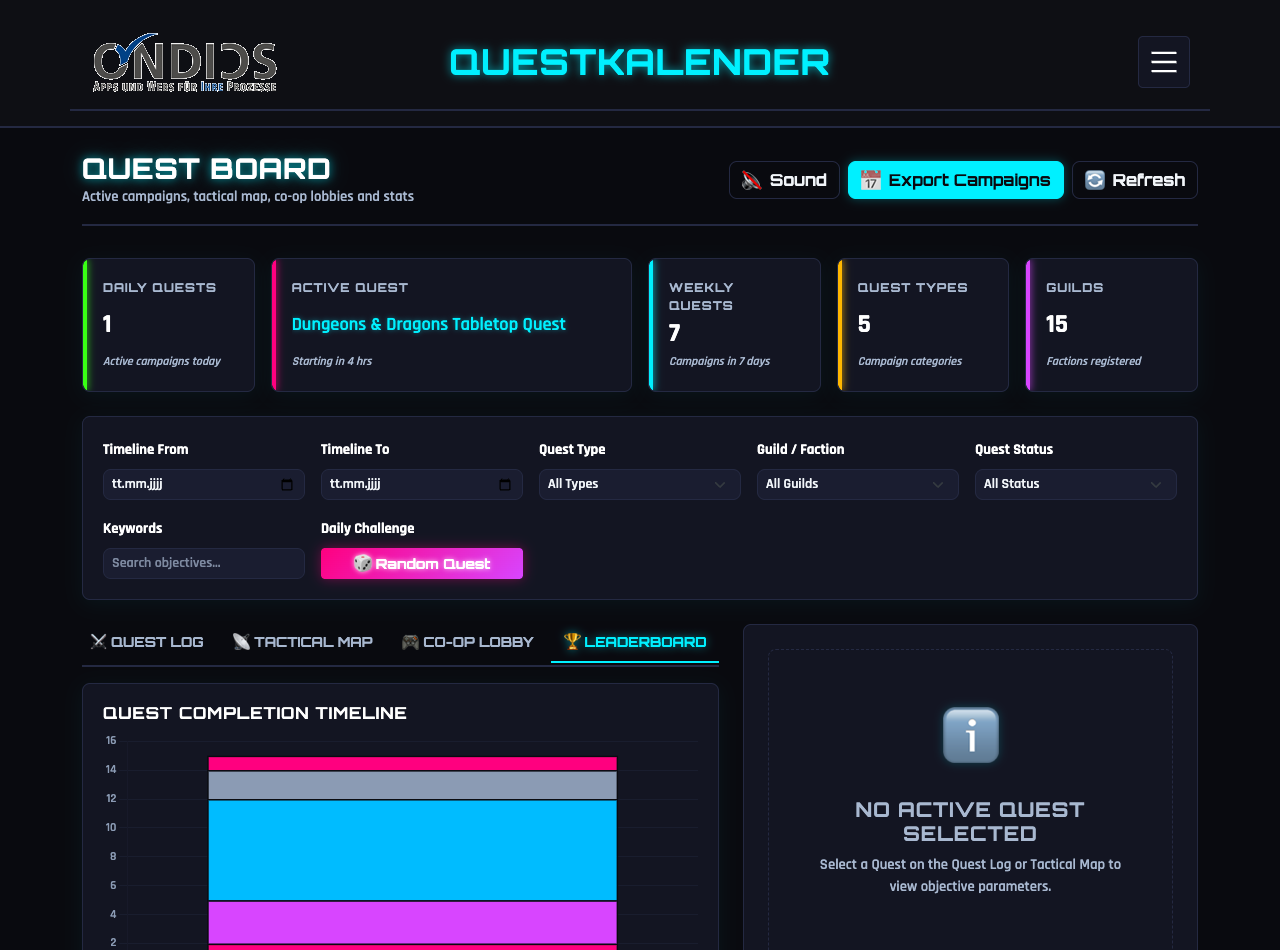
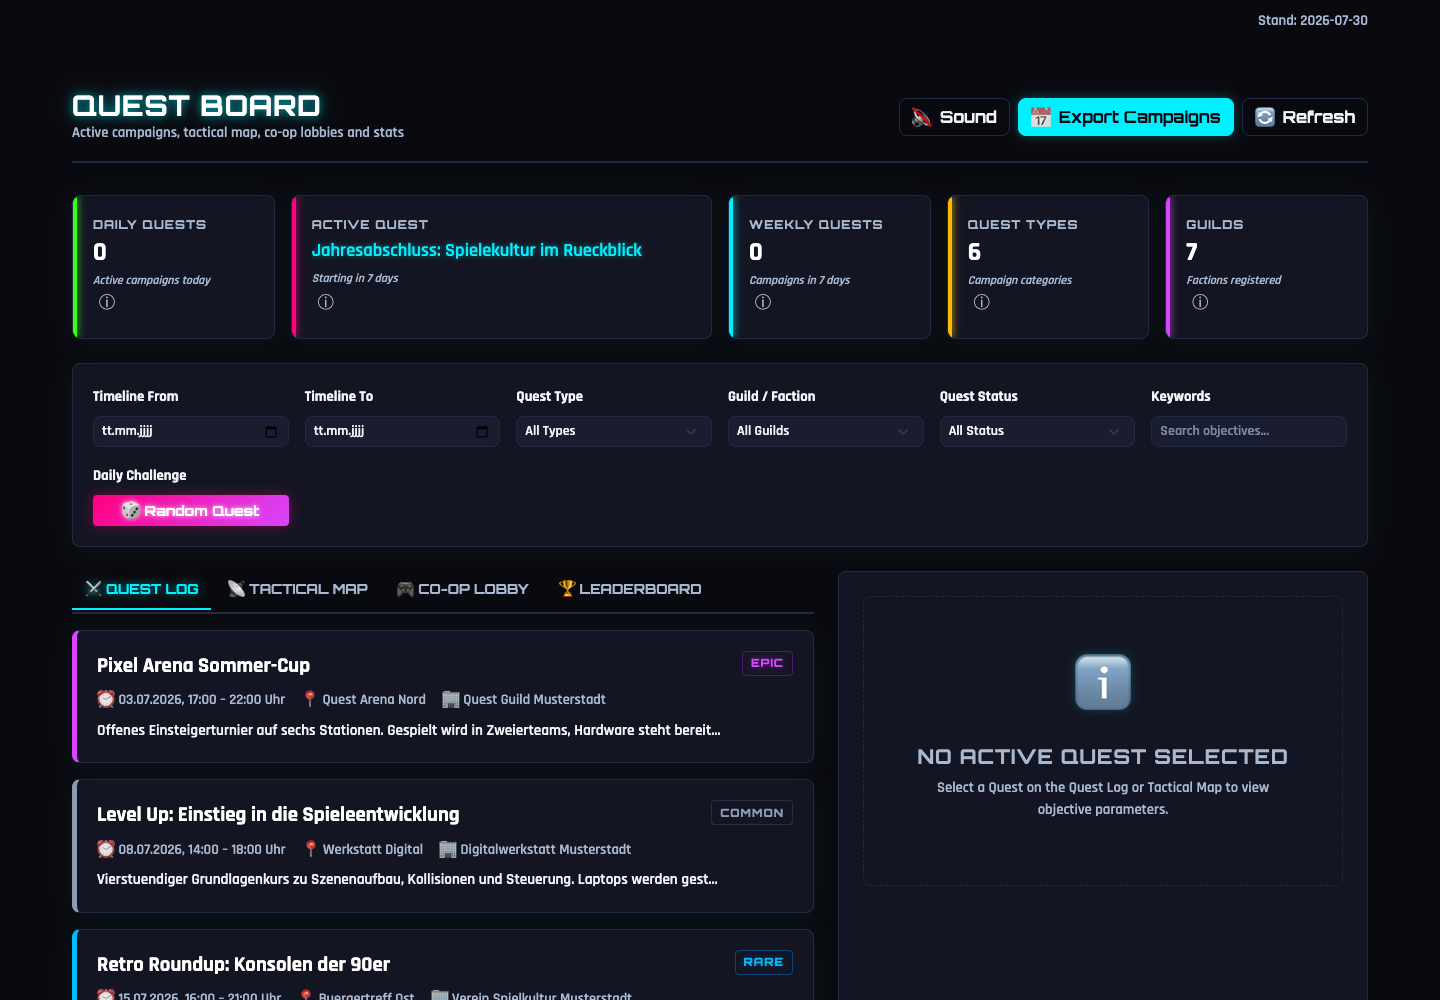
docs: neue Store-Screenshots, je 3 Desktop und 3 Mobile (1.32.15)
Aufgenommen auf der Dev-Instanz mit dem aktuellen App-Stand (1440x1000 bzw. 390x844, Ladepruefung vor jeder Aufnahme). Bisherige Bilder nach docs/screenshots/archive/2026-10-13/ verschoben. Kein App-Code geaendert.

diff --git a/CHANGELOG.md b/CHANGELOG.md
@@ -1,5 +1,8 @@
 # Changelog
 
+## 1.32.15 - 2026-10-15
+- DOCS: Neue Store-Screenshots: je drei Desktop- (1440 × 1000) und Mobile-Aufnahmen (390 × 844) der aktuellen App, aufgenommen auf der Dev-Instanz. Bisherige Bilder nach `docs/screenshots/archive/2026-10-13/` verschoben. Keine Änderung an App-Code oder Konfiguration.
+
 ## 1.32.14 - 2026-10-15
 - FIX: Mobil (bis 575 px): Aktionsknöpfe der Kampagnenansicht (Sound, Export, Refresh) brechen innerhalb der App um, und die Menüspalte der Kopfzeile ragt nicht mehr über den Bildschirmrand.
 
